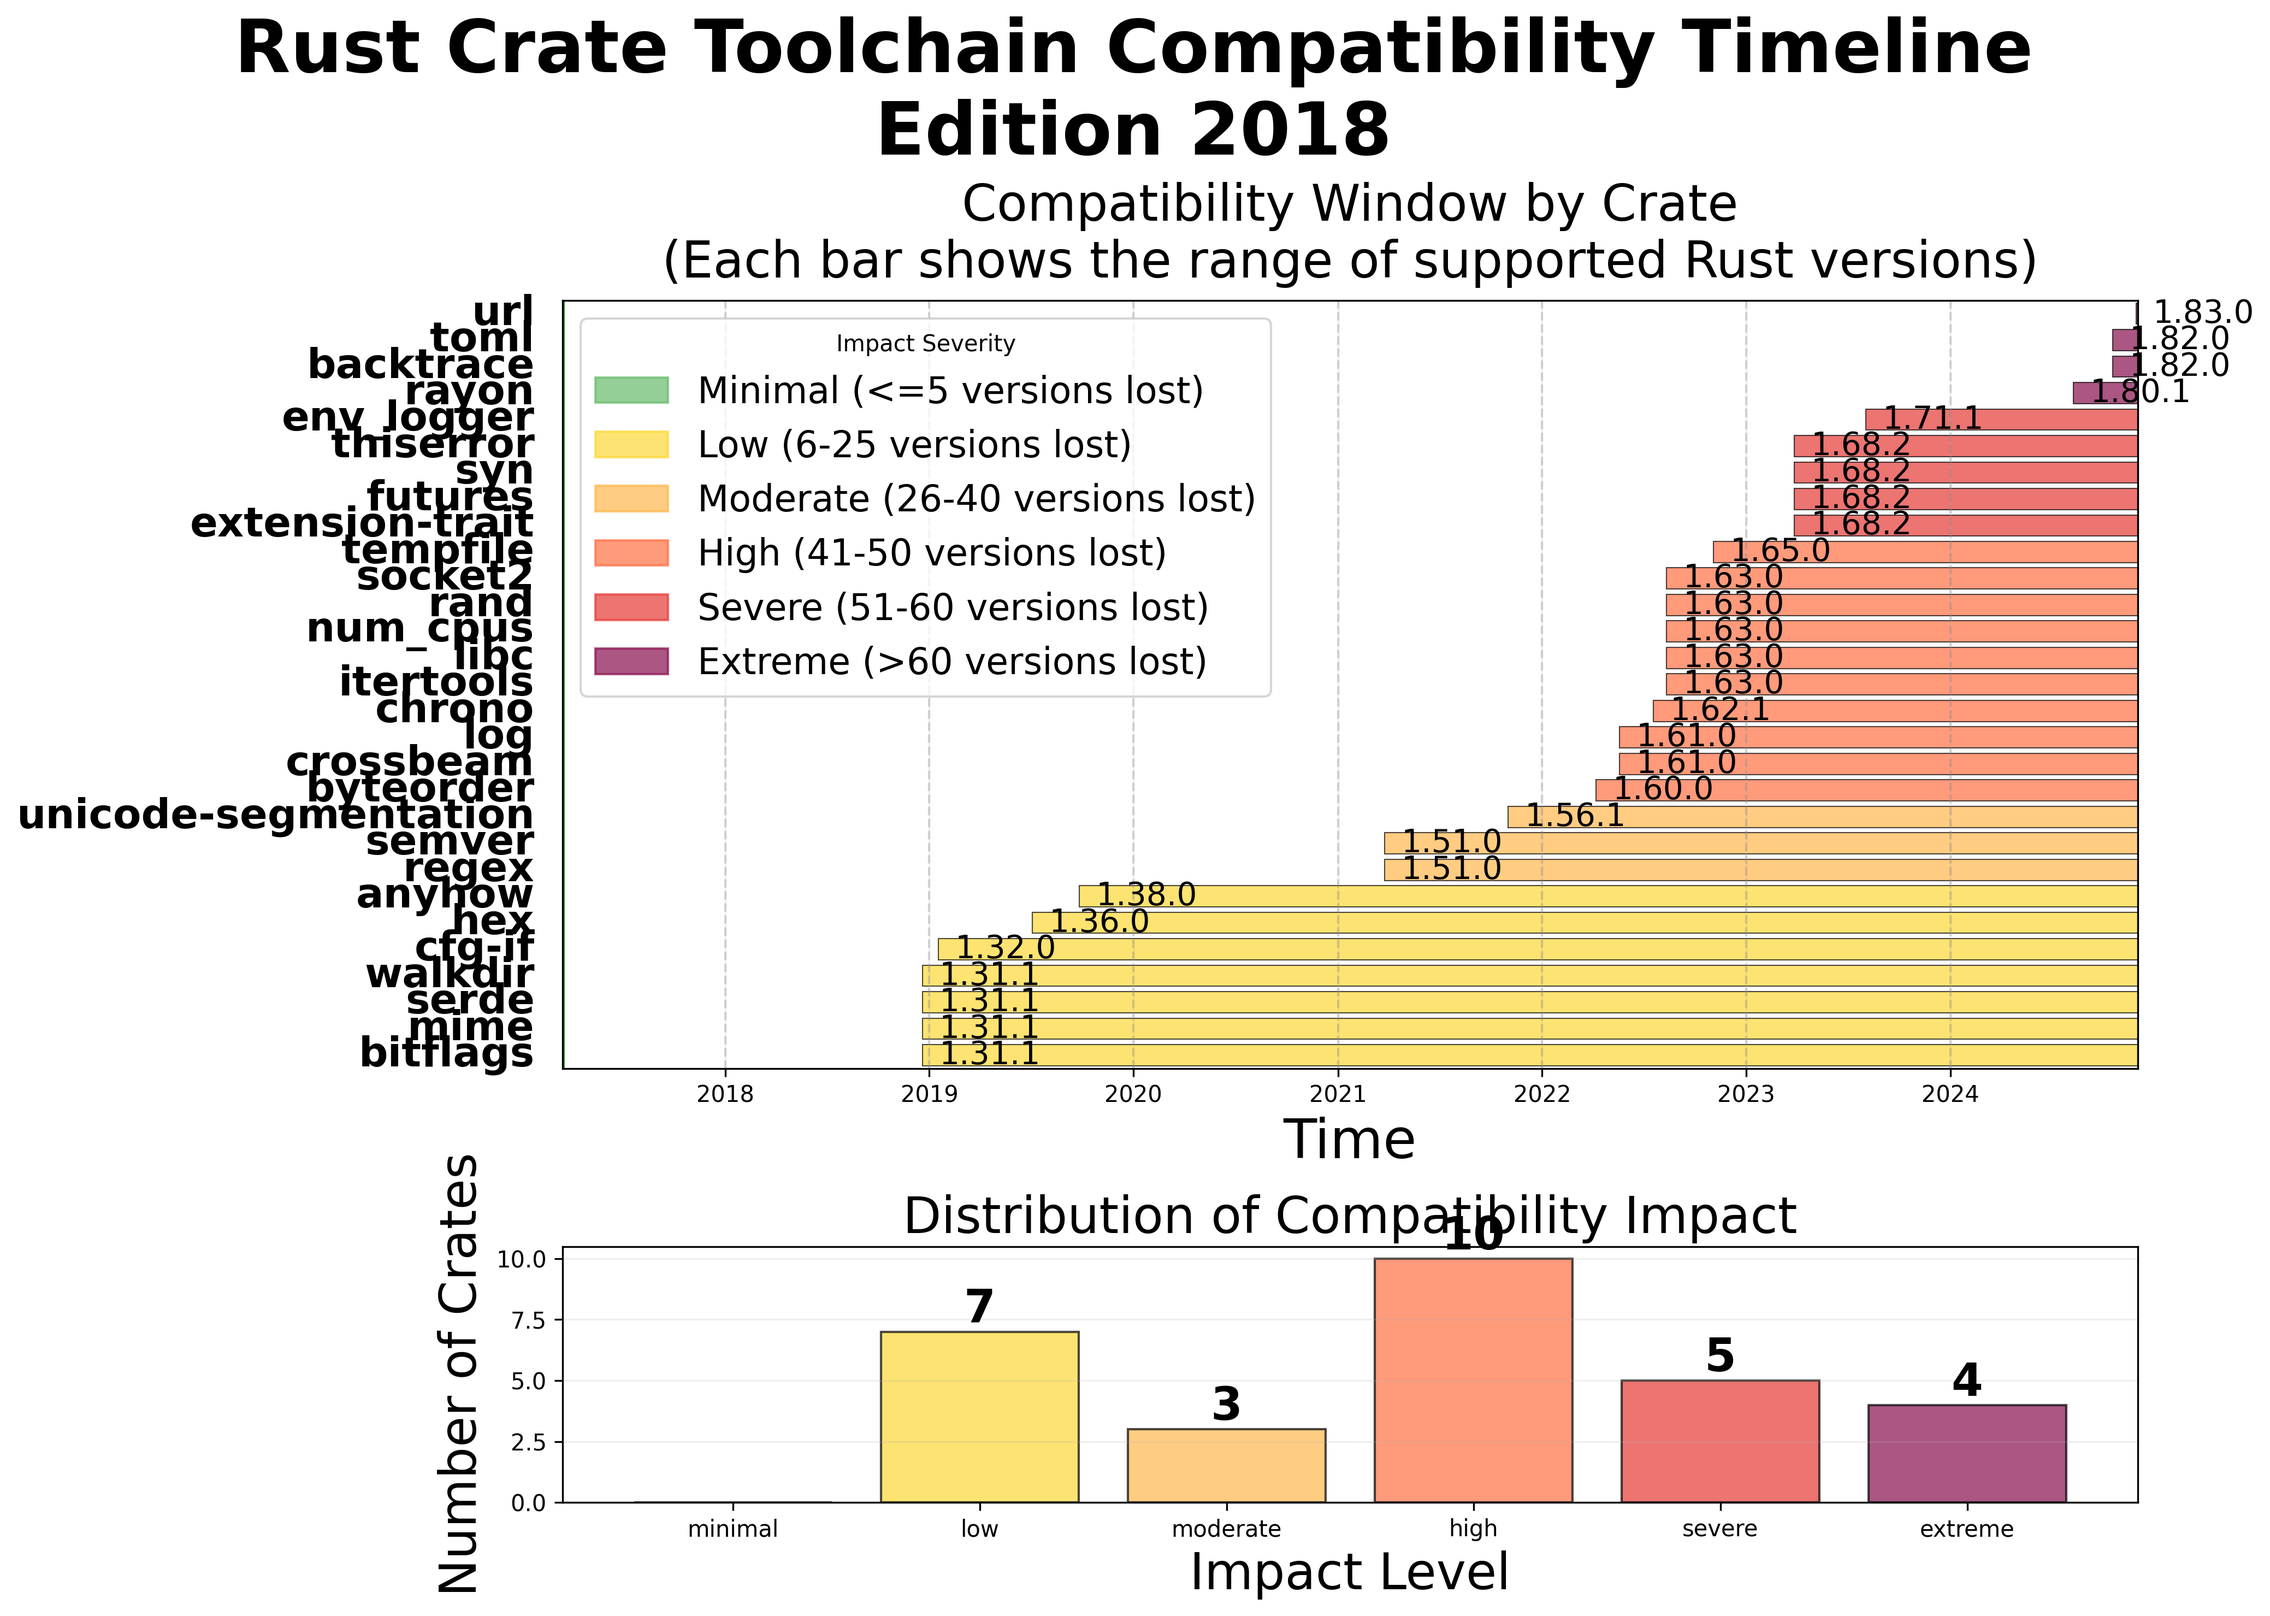
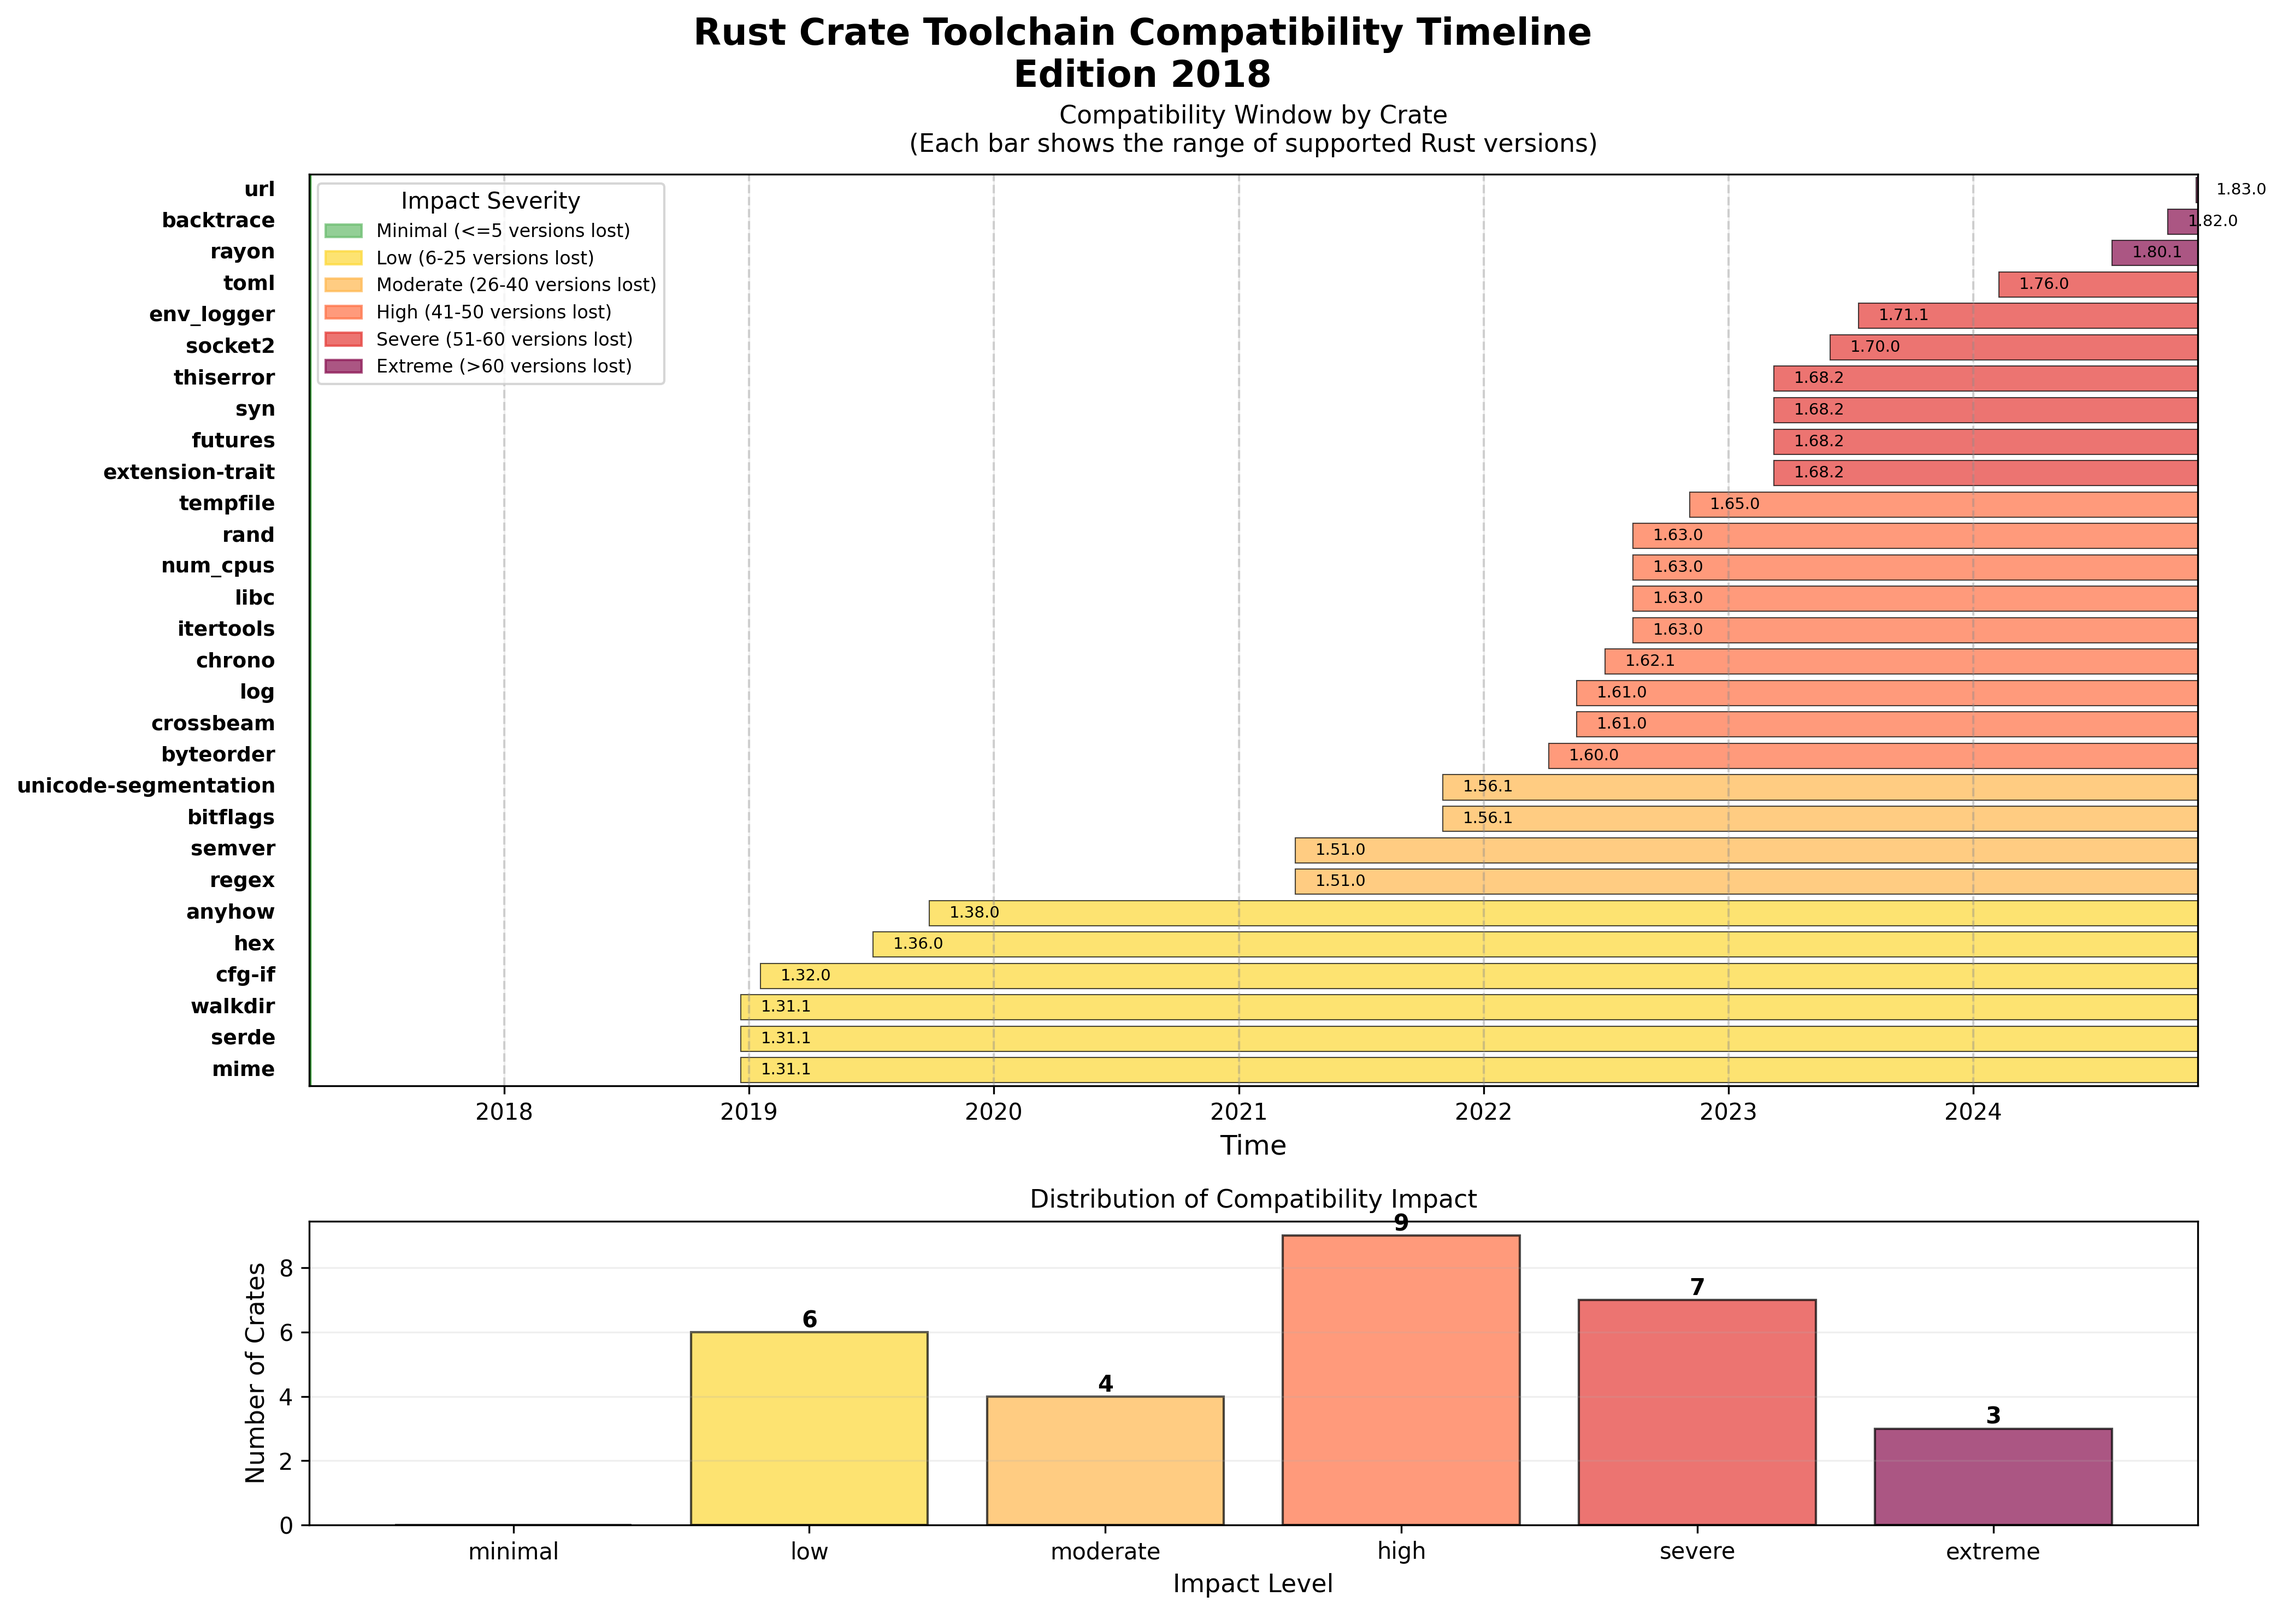
.

diff --git a/presentation/index.html b/presentation/index.html
@@ -31,31 +31,31 @@
     <!-- link to github repo -->
   </div>
 
-  <div class="step" data-x="1200" data-y="0">
-    <h2>About Me</h2>
-    <p>Content placeholder</p>
-  </div>
-
   <div class="step" data-x="2400" data-y="0">
-    <h2>Overview</h2>
-    <p>Content placeholder</p>
+    <h2>What's this About?</h2>
+    <p>I made a TigerBeetle Rust client.</p>
+    <p>I got mad about dependencies.</p>
+    <p>I did an experiment about it.</p>
   </div>
 
   <div class="step" data-x="3600" data-y="0">
-    <h2>Overview</h2>
-    <p>Content placeholder</p>
+    <h2>TigerBeetle Clients</h2>
+    <p>Present: Java, Python, Node, Go.</p>
+    <p>~Present: Also Rust</p>
+    <p>Future: Ruby probably</p>
   </div>
+
   <div class="step" data-x="4800" data-y="0">
     <h2>Overview</h2>
     <p>Content placeholder</p>
   </div>
+
   <div class="step" data-x="6000" data-y="0">
     <h2>Overview</h2>
     <p>Content placeholder</p>
   </div>
   
   <!--
-      - Advance Summary
       - The TigerStyle mindset
       - About TigerBeetle clients
       - A look at the TigerBeetle Rust client

diff --git a/visualize-rust.py b/visualize-rust.py
@@ -27,27 +27,98 @@ with open('rust/results.json', 'r') as f:
     results = json.load(f)
 
 # Rust version release dates (mapping version to date and index).
-# Using approximate dates based on 6-week release cycle for versions not specifically researched.
+# Dates are approximate based on 6-week release cycle, with known anchor points.
 rust_versions = {
     '1.0.0': ('2015-05-15', 0),
+    '1.1.0': ('2015-06-26', 1),
+    '1.2.0': ('2015-08-07', 2),
+    '1.3.0': ('2015-09-18', 3),
+    '1.4.0': ('2015-10-30', 4),
+    '1.5.0': ('2015-12-11', 5),
+    '1.6.0': ('2016-01-22', 6),
+    '1.7.0': ('2016-03-04', 7),
+    '1.8.0': ('2016-04-15', 8),
+    '1.9.0': ('2016-05-27', 9),
+    '1.10.0': ('2016-07-08', 10),
+    '1.11.0': ('2016-08-19', 11),
+    '1.12.1': ('2016-09-30', 12),
+    '1.13.0': ('2016-11-11', 13),
+    '1.14.0': ('2016-12-23', 14),
+    '1.15.1': ('2017-02-03', 15),
     '1.16.0': ('2017-03-16', 16),
+    '1.17.0': ('2017-04-28', 17),
+    '1.18.0': ('2017-06-09', 18),
+    '1.19.0': ('2017-07-21', 19),
+    '1.20.0': ('2017-09-01', 20),
+    '1.21.0': ('2017-10-13', 21),
+    '1.22.1': ('2017-11-24', 22),
+    '1.23.0': ('2018-01-05', 23),
+    '1.24.1': ('2018-02-16', 24),
+    '1.25.0': ('2018-03-30', 25),
+    '1.26.2': ('2018-05-11', 26),
+    '1.27.2': ('2018-06-22', 27),
+    '1.28.0': ('2018-08-03', 28),
+    '1.29.2': ('2018-09-14', 29),
+    '1.30.1': ('2018-10-26', 30),
     '1.31.1': ('2018-12-20', 31),
-    '1.32.0': ('2019-01-17', 32),
-    '1.36.0': ('2019-07-04', 36),
-    '1.38.0': ('2019-09-26', 38),
-    '1.51.0': ('2021-03-25', 51),
+    '1.32.0': ('2019-01-18', 32),
+    '1.33.0': ('2019-03-01', 33),
+    '1.34.2': ('2019-04-12', 34),
+    '1.35.0': ('2019-05-24', 35),
+    '1.36.0': ('2019-07-05', 36),
+    '1.37.0': ('2019-08-16', 37),
+    '1.38.0': ('2019-09-27', 38),
+    '1.39.0': ('2019-11-08', 39),
+    '1.40.0': ('2019-12-20', 40),
+    '1.41.1': ('2020-01-31', 41),
+    '1.42.0': ('2020-03-13', 42),
+    '1.43.1': ('2020-04-24', 43),
+    '1.44.1': ('2020-06-05', 44),
+    '1.45.2': ('2020-07-17', 45),
+    '1.46.0': ('2020-08-28', 46),
+    '1.47.0': ('2020-10-09', 47),
+    '1.48.0': ('2020-11-20', 48),
+    '1.49.0': ('2021-01-01', 49),
+    '1.50.0': ('2021-02-12', 50),
+    '1.51.0': ('2021-03-26', 51),
+    '1.52.1': ('2021-05-07', 52),
+    '1.53.0': ('2021-06-18', 53),
+    '1.54.0': ('2021-07-30', 54),
+    '1.55.0': ('2021-09-10', 55),
     '1.56.1': ('2021-11-01', 56),
-    '1.57.0': ('2021-12-02', 57),
-    '1.60.0': ('2022-04-07', 60),
-    '1.61.0': ('2022-05-19', 61),
-    '1.62.1': ('2022-07-19', 62),
-    '1.63.0': ('2022-08-11', 63),
-    '1.65.0': ('2022-11-03', 65),
-    '1.68.2': ('2023-03-28', 68),
-    '1.71.1': ('2023-08-03', 71),
-    '1.80.1': ('2024-08-08', 80),
+    '1.57.0': ('2021-12-03', 57),
+    '1.58.1': ('2022-01-14', 58),
+    '1.59.0': ('2022-02-25', 59),
+    '1.60.0': ('2022-04-08', 60),
+    '1.61.0': ('2022-05-20', 61),
+    '1.62.1': ('2022-07-01', 62),
+    '1.63.0': ('2022-08-12', 63),
+    '1.64.0': ('2022-09-23', 64),
+    '1.65.0': ('2022-11-04', 65),
+    '1.66.1': ('2022-12-16', 66),
+    '1.67.1': ('2023-01-27', 67),
+    '1.68.2': ('2023-03-10', 68),
+    '1.69.0': ('2023-04-21', 69),
+    '1.70.0': ('2023-06-02', 70),
+    '1.71.1': ('2023-07-14', 71),
+    '1.72.1': ('2023-08-25', 72),
+    '1.73.0': ('2023-10-06', 73),
+    '1.74.1': ('2023-11-17', 74),
+    '1.75.0': ('2023-12-29', 75),
+    '1.76.0': ('2024-02-09', 76),
+    '1.77.2': ('2024-03-22', 77),
+    '1.78.0': ('2024-05-03', 78),
+    '1.79.0': ('2024-06-14', 79),
+    '1.80.1': ('2024-07-26', 80),
+    '1.81.0': ('2024-09-06', 81),
     '1.82.0': ('2024-10-17', 82),
-    '1.83.0': ('2024-11-28', 83),
+    '1.83.0': ('2024-11-29', 83),
+    '1.84.1': ('2025-01-10', 84),
+    '1.85.1': ('2025-02-21', 85),
+    '1.86.0': ('2025-04-04', 86),
+    '1.87.0': ('2025-05-16', 87),
+    '1.88.0': ('2025-06-27', 88),
+    '1.89.0': ('2025-08-08', 89),
     '1.90.0': ('2024-12-01', 90),
 }
 
